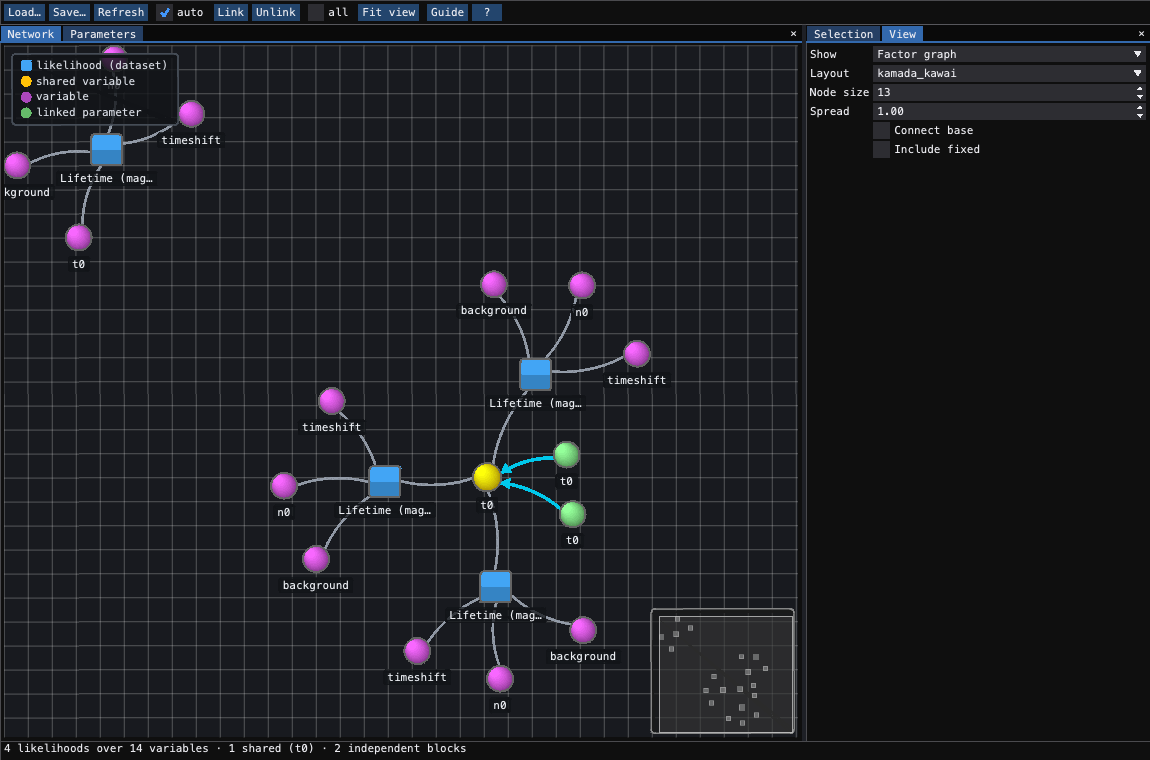
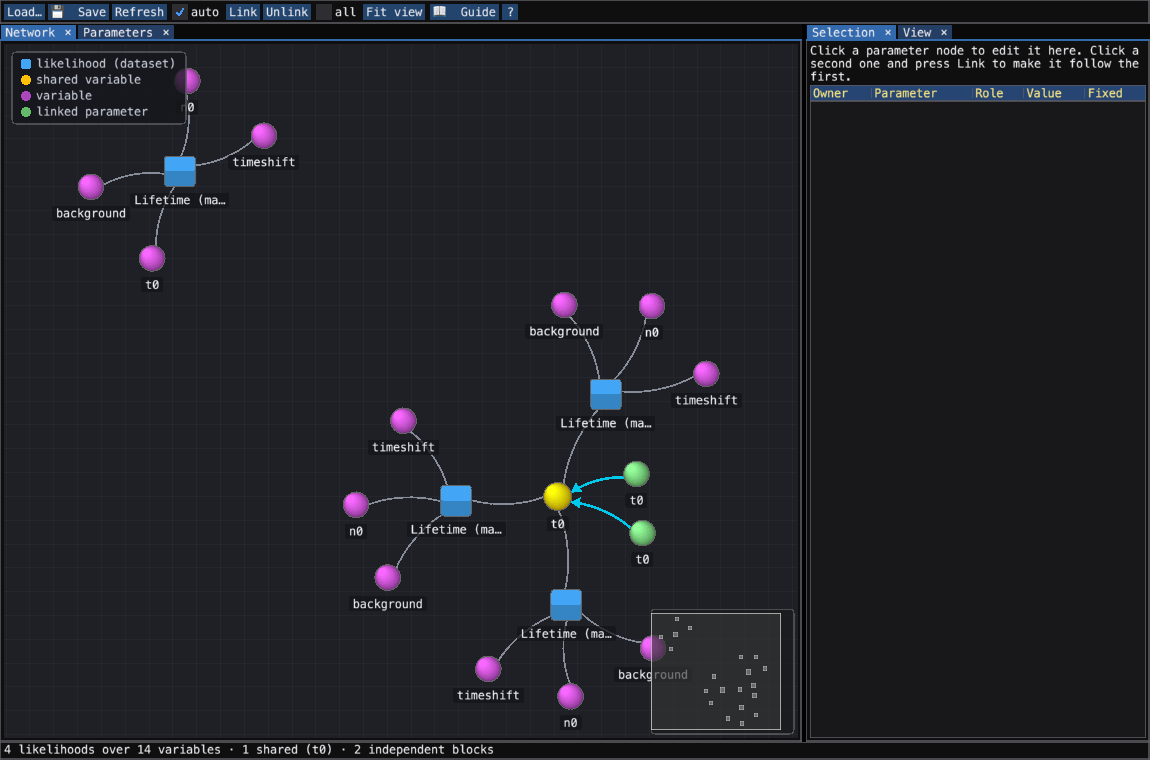
guides: global-view grabber ports to the native GlobalViewApp
2f6fee28b retired the Qt GraphWizard host; the grabber still imported
chisurf.plugins.core.globalview.gui.tool. Port _grab_global_view to
make_app(GlobalViewModel(fits=lambda: fits)) with the PilPainter pattern the
vv_vh_g_factor grabber uses, and re-capture both figures (network + factor
graph) from the native app. Grabber runs clean end-to-end.

diff --git a/docs/guides/make_screenshots.py b/docs/guides/make_screenshots.py
@@ -874,12 +874,16 @@ def _grab_global_view():
     is about the shared parameter, and an unlinked network has nothing in it
     that a list of fits would not have shown.
     """
+    import numpy as np
+    from emtk.pil_painter import PilPainter
+
     import chisurf
     from chisurf.core.api.fitting_client import install_fitting_client
     from chisurf.core.data import DataCurve, DataCurveGroup
     from chisurf.core.fitting.fit import FitGroup
     from chisurf.core.models.description import tcspc_lifetime
-    from chisurf.plugins.core.globalview.gui.tool import GraphWizard
+    from chisurf.plugins.core.globalview.gui.app import make_app
+    from chisurf.plugins.core.globalview.gui.model import GlobalViewModel
 
     def make(name, tau, n_curves=1):
         x = np.linspace(0.1, 25, 256)
@@ -898,13 +902,20 @@ def _grab_global_view():
     for fit in fits[1:]:
         fit.model.parameters_all_dict["t0"].link = source
 
-    tool = GraphWizard(fit_list=fits, remember_layout=False)
-    tool.resize(1150, 760)
-    tool.model.rebuild(force=True)
-    _grab(tool, "globalview_network.png")
-    tool.model.representation = "factor graph"
-    tool.model.relayout()
-    _grab(tool, "globalview_factor_graph.png")
+    app = make_app(GlobalViewModel(fits=lambda: fits), remember_layout=False)
+    for name, representation in (
+        ("globalview_network.png", "network"),
+        ("globalview_factor_graph.png", "factor graph"),
+    ):
+        app.model.representation = representation
+        app.model.rebuild(force=True)
+        app.model.relayout()
+        for _ in range(4):
+            painter = PilPainter(1150, 760)
+            app.draw(painter, 0, 0, 1150, 760)
+        painter.frame.save(FIG / name)
+        print("wrote", name)
+    app.close()
 
 
 def _grab_ebfret_tool():
